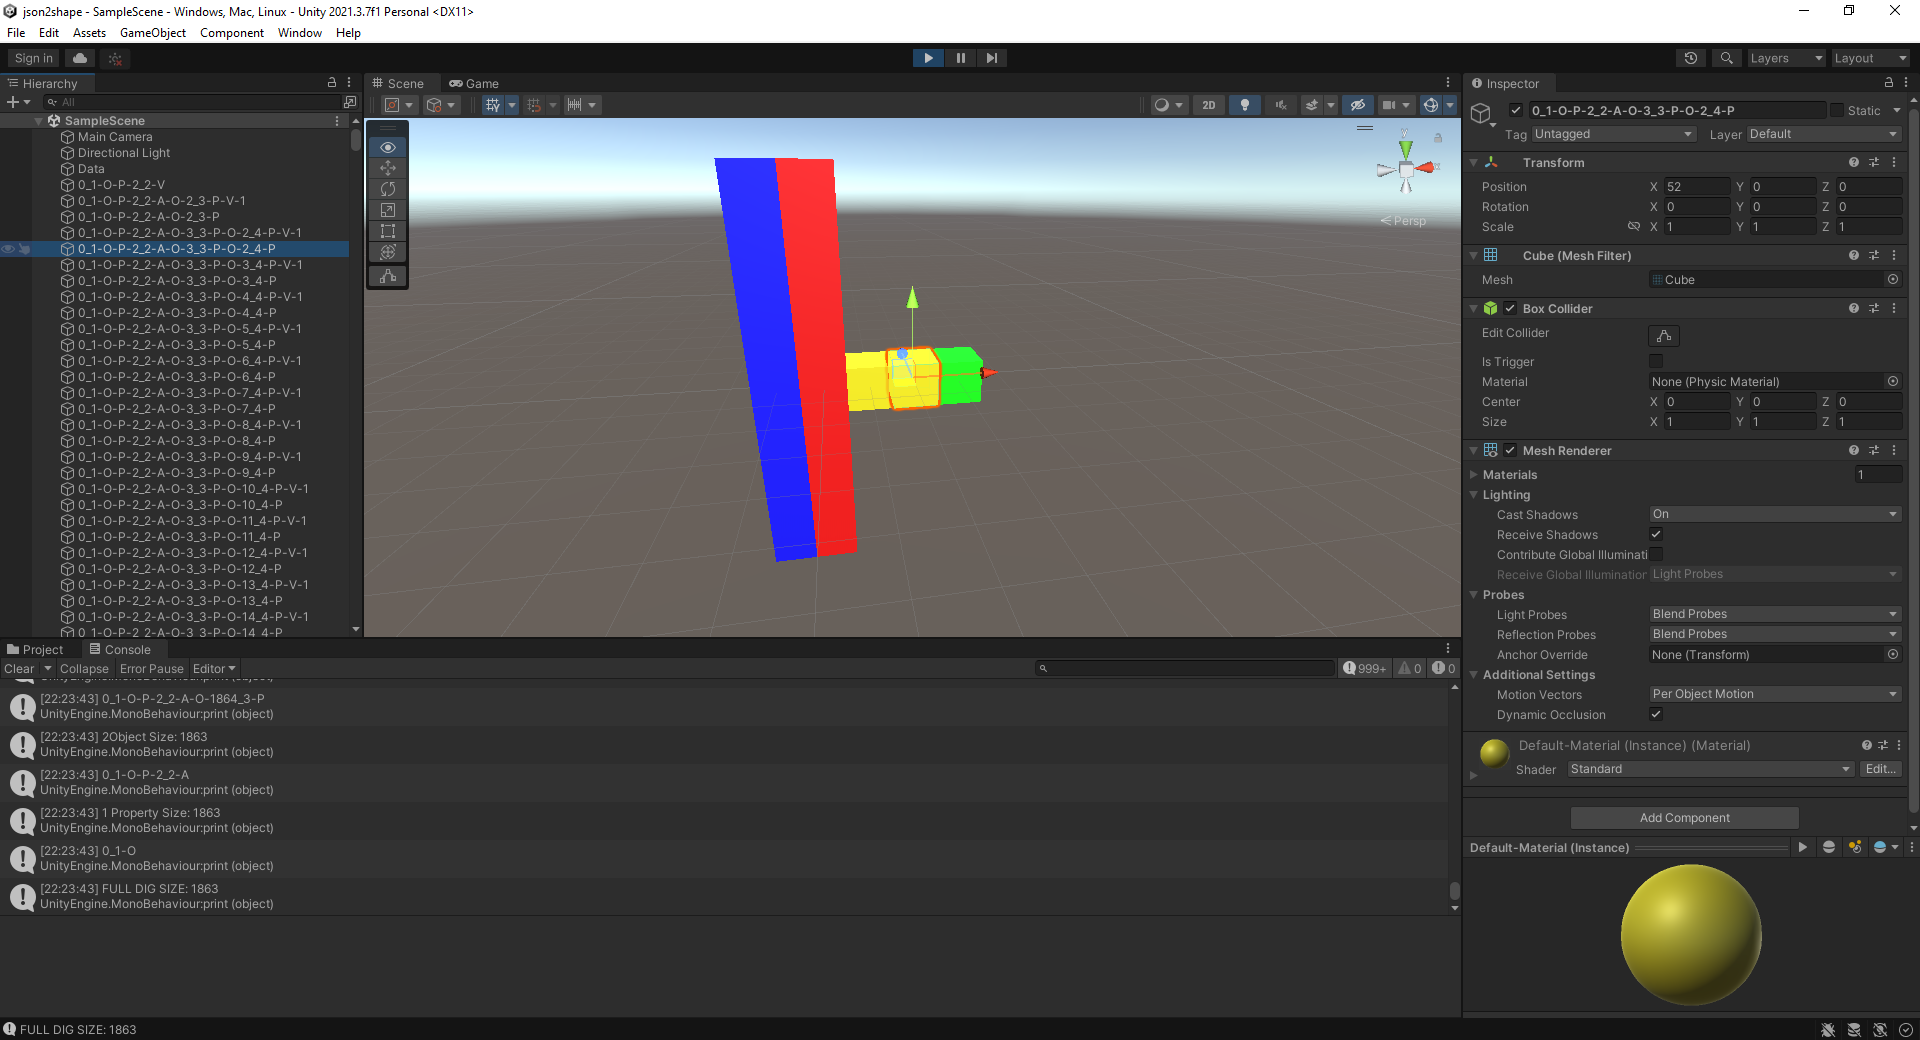
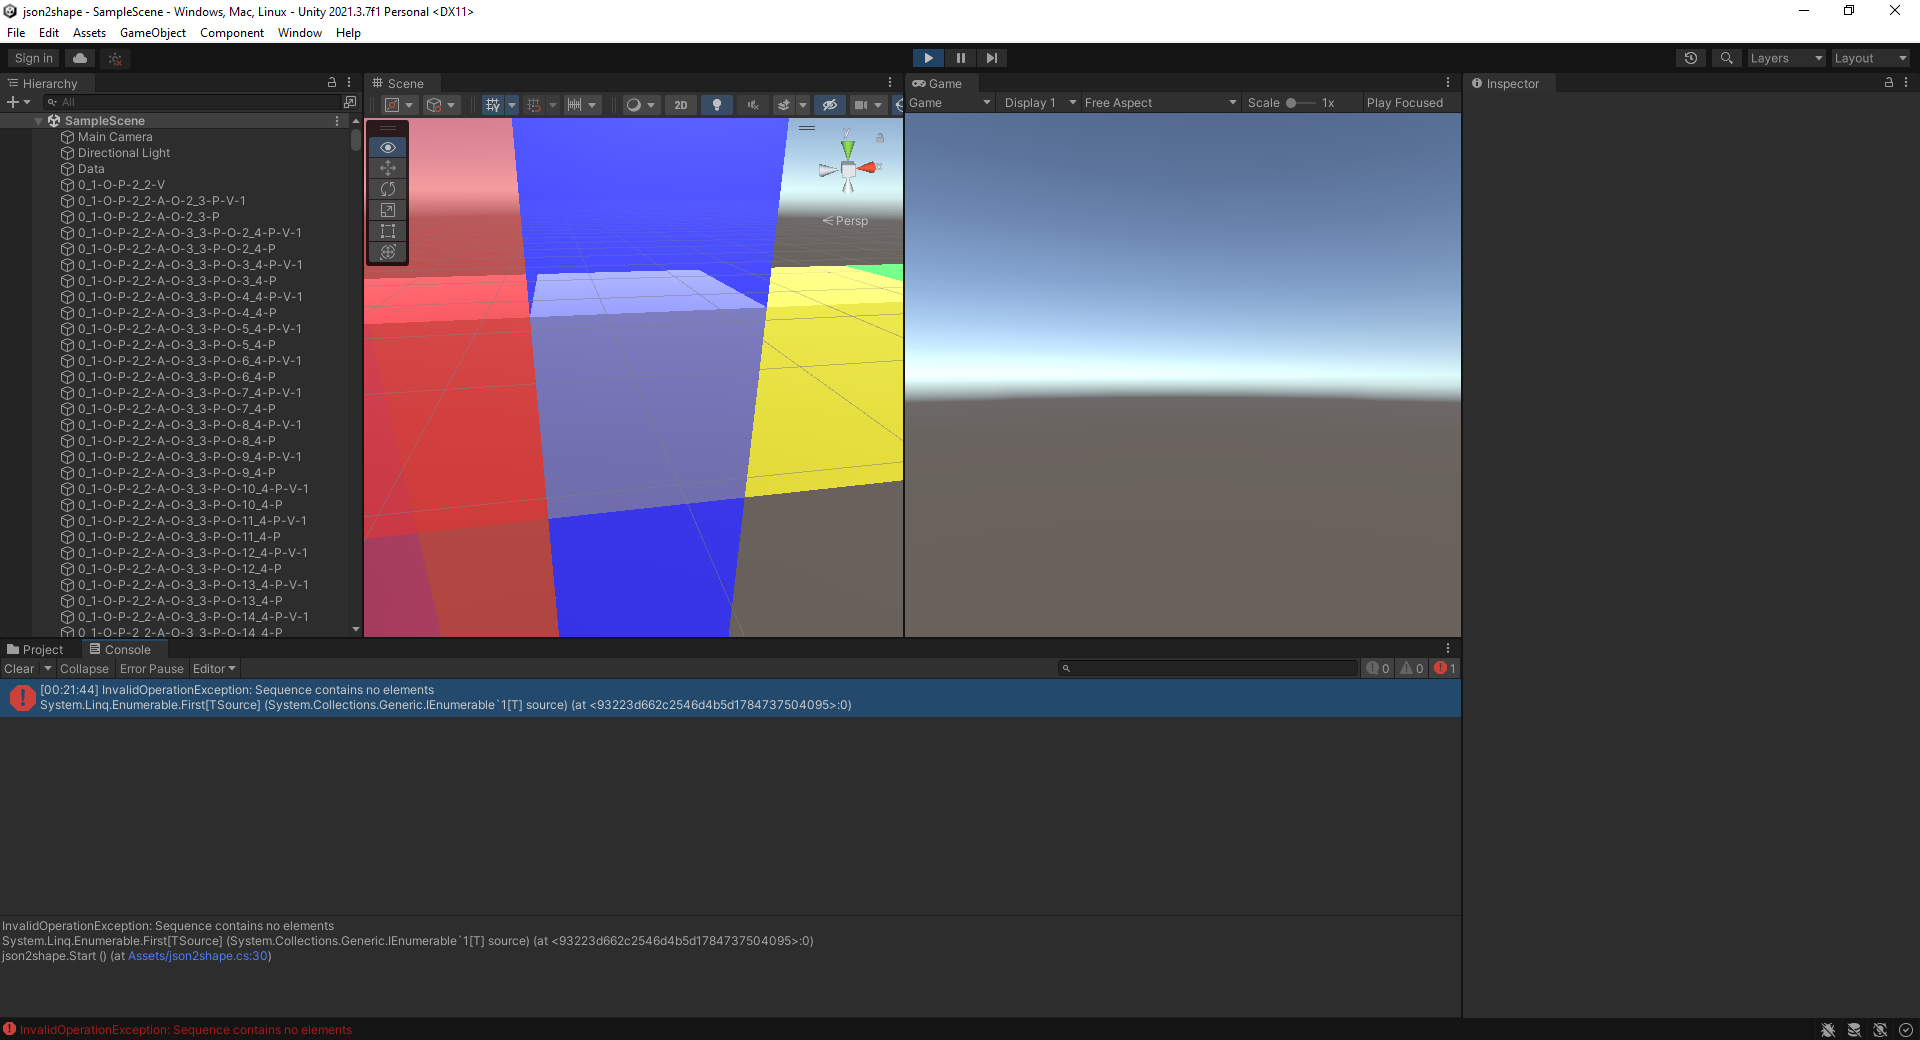
Instantiate, position, scale, and color blocks - Part 3

diff --git a/Assets/json2shape.cs b/Assets/json2shape.cs
@@ -16,18 +16,20 @@ using Newtonsoft.Json.Linq;
 public class json2shape : MonoBehaviour
 {
     JContainer obj = JObject.Parse(File.ReadAllText("./Assets/projects.json"));
-
+    List<string> master_index = new List<string>();
     // Start is called before the first frame update
     void Start()
     {
-        print(obj.First);
-        print(obj.First.Type);
-        print(obj.Type);
-        print(obj.Count);
-        print(obj.Root);
-        print(obj.Path);
+        //print(obj.First);
+        //print(obj.First.Type);
+        //print(obj.Type);
+        //print(obj.Count);
+        //print(obj.Root);
+        //print(obj.Path);
         int full_size = Dig(obj,0,"0",Color.blue);
-        print("FULL DIG SIZE: "+full_size);
+        print(master_index.First());
+        Reposition(master_index);
+        //print("FULL DIG SIZE: "+full_size);
     }
 
     /// <summary>
@@ -43,19 +45,19 @@ public class json2shape : MonoBehaviour
         //print(layer+"_"+address+"_"+objecto);
         foreach (JToken sub in objecto)
         {
-            print(layer+":"+sub.GetType());
-            print(layer+":"+sub.HasValues);
+            //print(layer+":"+sub.GetType());
+            //print(layer+":"+sub.HasValues);
             if (sub.GetType().ToString()=="Newtonsoft.Json.Linq.JProperty")
             {
                 foreach (JToken sub_prop in sub)
                     size += Dig(sub_prop,layer,address+"-P-"+(size+2),Color.red);
-                print(layer+" Property Size: "+size);
+                //print(layer+" Property Size: "+size);
             }
             else if (sub.GetType().ToString()=="Newtonsoft.Json.Linq.JObject")
             {
                 foreach (JToken sub_obj in sub)
                     size += Dig(sub_obj,layer,address+"-O-"+(size+2),Color.blue);
-                print(layer+"Object Size: "+size);
+                //print(layer+"Object Size: "+size);
             }
             else if (sub.GetType().ToString()=="Newtonsoft.Json.Linq.JArray")
             {
@@ -65,20 +67,20 @@ public class json2shape : MonoBehaviour
                     size += Dig(sub_obj,layer,address+"-A-"+(size+2),Color.green);
                     array_values++;
                 }
-                print(layer+"\nArray Size: "+size+"\nArray count: "+array_values);
+                //print(layer+"\nArray Size: "+size+"\nArray count: "+array_values);
             }
             else if (sub.GetType().ToString()=="Newtonsoft.Json.Linq.JValue")
             {
                 thisColor = Color.yellow;
                 size += sub.ToString().Length/100+1;
-                print(sub.Type+": "+size);
+                //print(sub.Type+": "+size);
                 Build(address+"-V-"+size, thisColor, size);
             }
             else
                 thisColor = Color.magenta;
         }  
         GameObject thisObject = Build(address, thisColor, size);
-        print(address);
+        //print(address);
         return size;
     }
 
@@ -114,7 +116,27 @@ public class json2shape : MonoBehaviour
             size=1;
         local_object.transform.localScale = new Vector3(1,size,1);
         local_object.name = object_address;
+        master_index.Append(object_address);
+        //print("Adding "+local_object.name+" to index");
         return local_object;
+    }
+
+    /// <summary>
+    /// "Resposition" assigns each GameObject to its proper parent.
+    /// </summary>
+    void Reposition(List<string> index)
+    {
+        print("YO!");
+        print(index.Count);
+        foreach (string address in index)
+        {
+            string[] levels = address.Split("_");
+            string parent_address = address.Replace(levels.Last(),"");
+            Transform old_transform = GameObject.Find(address).transform;
+            Transform new_transform = GameObject.Find(parent_address).transform;
+            old_transform.SetParent(new_transform);
+            print(address+" : "+parent_address);
+        }
     }
 
     // Update is called once per frame
